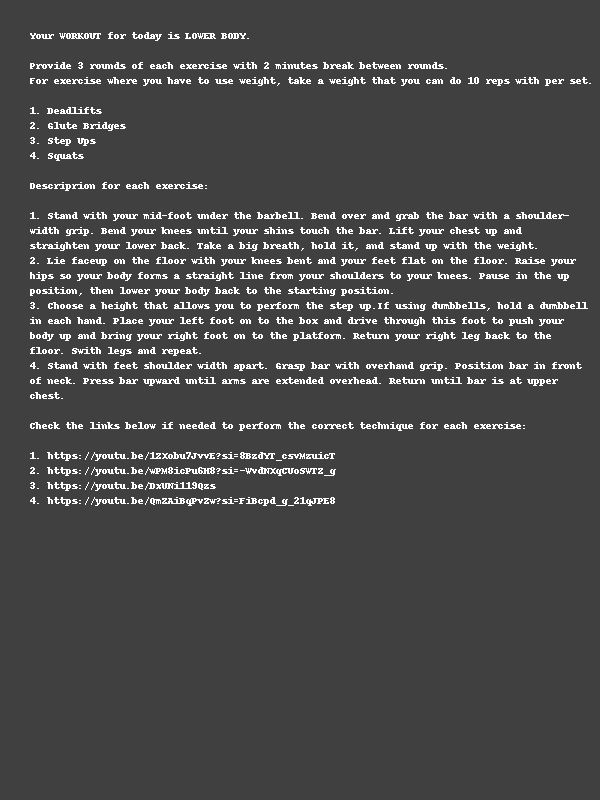
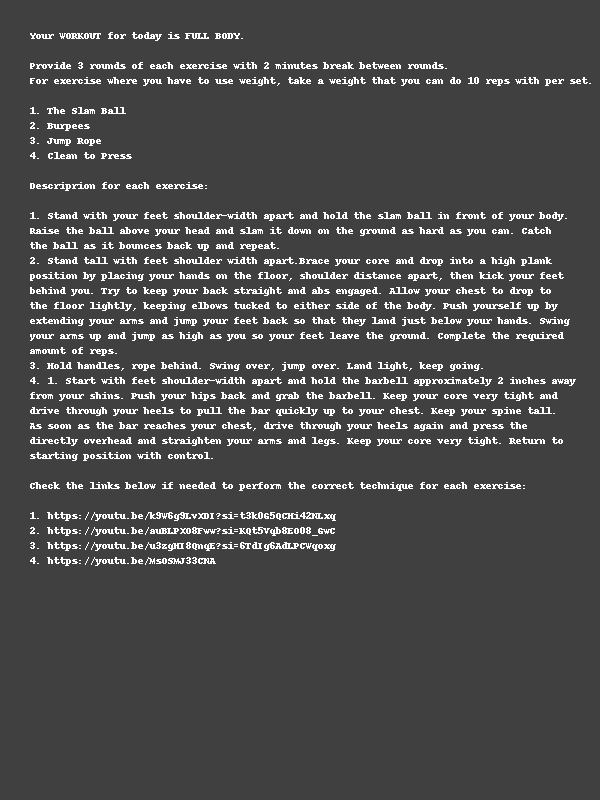
Updated save and display workout methods

diff --git a/wod.py b/wod.py
@@ -49,6 +49,8 @@ class Workout:
         self.categories = categories
         self.file_name = file_name
         self.exercises = []
+        #Initialize random workout
+        self.random_workout = None
         
     '''Load exercises from json file'''
     
@@ -67,11 +69,15 @@ class Workout:
         chosen_exercises = [exercise for exercise in self.exercises if exercise.category.lower() == choicen_category.lower()]
         random.shuffle(chosen_exercises)
         selected_exercises = chosen_exercises[:num_exercises]
-        return selected_exercises
+        self.random_workout = selected_exercises
+        return self.random_workout
     
-    '''Display workout with description and video link'''
+    
     def display_workout(self,chosen_category,num_rounds = 3, break_time = 2):
-        random_workout = self.generate_random_workout(chosen_category)
+        '''Display workout with description and video link'''
+        if self.random_workout is None:
+            self.generate_random_workout(chosen_category)
+        random_workout = self.random_workout
         print("\nYour WORKOUT for today is {}.\n".format(chosen_category.upper()))
         print("Provide {} rounds of each exercise with {} minutes break between rounds.".format(num_rounds, break_time))
         print("For exercise where you have to use weight, take a weight that you can do 10 reps with per set.\n")
@@ -87,10 +93,61 @@ class Workout:
         print("\nCheck the links below if needed to perform the correct technique for each exercise: \n")
         for index, exercise in enumerate(random_workout, start = 1):
             print(f"{index}. {exercise.link}")
-                
-                
-    '''Get wod from txt file'''
+            
+    def save_workout(self,chosen_category, output_image_path='workout.png'):
+        '''save workout as image'''
+        if self.random_workout is None:
+            self.generate_random_workout(chosen_category)
+        random_workout = self.random_workout    
+        image_width, image_hight = 600,800
+        background_color = (64,64,64)
+        image = self.create_image(image_width, image_hight, background_color)
+        draw= ImageDraw.Draw(image)
+        font= ImageFont.load_default()
+        font_size = 15
+        text_position = (30,30)
+        text_color = (255,255,255)
+        
+        workout_info=  self.create_workout_info(chosen_category, random_workout)
+        lines = workout_info.strip().split('\n')
+        self.draw_text_lines(draw, lines, text_position, font, font_size, text_color)
+        self.save_image(image, output_image_path)
+      
+    def create_image(self, width, hight, background_color):
+        '''create an image'''
+        return Image.new('RGB', (width, hight), background_color)
+     
+    def create_workout_info(self, chosen_category, random_workout):
+        '''create workout information'''  
+        workout_info = f"Your WORKOUT for today is {chosen_category.upper()}.\n\n"
+        workout_info += "Provide 3 rounds of each exercise with 2 minutes break between rounds.\n"
+        workout_info += "For exercise where you have to use weight, take a weight that you can do 10 reps with per set.\n\n"
+        for index, exercise in enumerate(random_workout, start = 1):
+            workout_info += f"{index}. {exercise.name}\n"  
+        workout_info += "\nDescriprion for each exercise: \n\n"
+            #wrap long lones of descriptions to fit within the image boundaries
+        max_line_length = 90
+        for index, exercise in enumerate(random_workout, start = 1):
+            wrapped_lines = textwrap.wrap(exercise.description, width=max_line_length)
+            formated_description = "\n".join(wrapped_lines)
+            workout_info += f"{index}. {formated_description}\n"
+        workout_info += "\nCheck the links below if needed to perform the correct technique for each exercise: \n\n"
+        for index, exercise in enumerate(random_workout, start = 1):
+            workout_info += f"{index}. {exercise.link}\n"
+        return workout_info
+       
+    def draw_text_lines(self, draw, lines, text_position, font, font_size, text_color):
+        '''draw text lines''' 
+        for line in lines:
+            draw.text(text_position, line, font=font, fill=text_color)
+            text_position = (text_position[0], text_position[1] + font_size)
+         
+    def save_image(self, image, output_image_path):
+        '''save image'''   
+        image.save(output_image_path)     
+        
     def get_wod(self, chosen_category):
+        '''Get wod from txt file'''
         if chosen_category.lower() not in self.categories:
             raise ValueError("Category {} is not found".format(chosen_category))
         with open("wods.txt", "r") as f:
@@ -119,51 +176,8 @@ class Workout:
             text_position = (text_position[0], text_position[1] + font_size)
         image.save(output_image_path, dpi=dpi)  
                 
-    '''save workout as image'''
-    def save_workout(self,chosen_category, output_image_path='workout.png'):
-        random_workout = self.generate_random_workout(chosen_category)
-        image_width, image_hight = 600,800
-        background_color = (64,64,64)
-        image = self.create_image(image_width, image_hight, background_color)
-        draw= ImageDraw.Draw(image)
-        font= ImageFont.load_default()
-        font_size = 15
-        text_position = (30,30)
-        text_color = (255,255,255)
-        
-        workout_info=  self.create_workout_info(chosen_category, random_workout)
-        lines = workout_info.strip().split('\n')
-        self.draw_text_lines(draw, lines, text_position, font, font_size, text_color)
-        self.save_image(image, output_image_path)
-    '''create an image'''  
-    def create_image(self, width, hight, background_color):
-        return Image.new('RGB', (width, hight), background_color)
-    '''create workout information'''   
-    def create_workout_info(self, chosen_category, random_workout):
-        workout_info = f"Your WORKOUT for today is {chosen_category.upper()}.\n\n"
-        workout_info += "Provide 3 rounds of each exercise with 2 minutes break between rounds.\n"
-        workout_info += "For exercise where you have to use weight, take a weight that you can do 10 reps with per set.\n\n"
-        for index, exercise in enumerate(random_workout, start = 1):
-            workout_info += f"{index}. {exercise.name}\n"  
-        workout_info += "\nDescriprion for each exercise: \n\n"
-            #wrap long lones of descriptions to fit within the image boundaries
-        max_line_length = 90
-        for index, exercise in enumerate(random_workout, start = 1):
-            wrapped_lines = textwrap.wrap(exercise.description, width=max_line_length)
-            formated_description = "\n".join(wrapped_lines)
-            workout_info += f"{index}. {formated_description}\n"
-        workout_info += "\nCheck the links below if needed to perform the correct technique for each exercise: \n\n"
-        for index, exercise in enumerate(random_workout, start = 1):
-            workout_info += f"{index}. {exercise.link}\n"
-        return workout_info
-    '''draw text lines'''    
-    def draw_text_lines(self, draw, lines, text_position, font, font_size, text_color):
-        for line in lines:
-            draw.text(text_position, line, font=font, fill=text_color)
-            text_position = (text_position[0], text_position[1] + font_size)
-    '''save image'''        
-    def save_image(self, image, output_image_path):
-        image.save(output_image_path)        
+    
+       
         
     
     

diff --git a/workout_generator.py b/workout_generator.py
@@ -10,7 +10,7 @@ def main():
     workout = Workout("info.json")
     workout.exercises = workout.load_exercises()
     clear()
-    main_menu()
+    #main_menu()
     while True:
         chosen_category = input("\033[36mWhich type of the workout would you like to get?\033[0m ")
         clear()
@@ -42,6 +42,7 @@ def main():
     user_answer = input("\nWhen you are done with your workout provide some stretching exercises. Would you like to get the example of the streching exercises? (yes/no) ")
     clear()
     if user_answer.lower() == "yes":
+        print("Your strtching exercises for today: \n")
         get_streching_exercises()
         print("\n\033[33mHave a nice day and enjoy our workout!\033[0m\n")
     else:
@@ -64,6 +65,7 @@ def get_streching_exercises():
         for i, index in enumerate(random_exercise,start=1):
             print(f"{i}. {exercises_description[index]}")    
     else:
+        print("Oops, It seems we'are experiencing some technical difficultis right now. Please try again later.")
         print("Error:", response.status_code, response.text)   
         
 '''Function that displays main menu'''       
